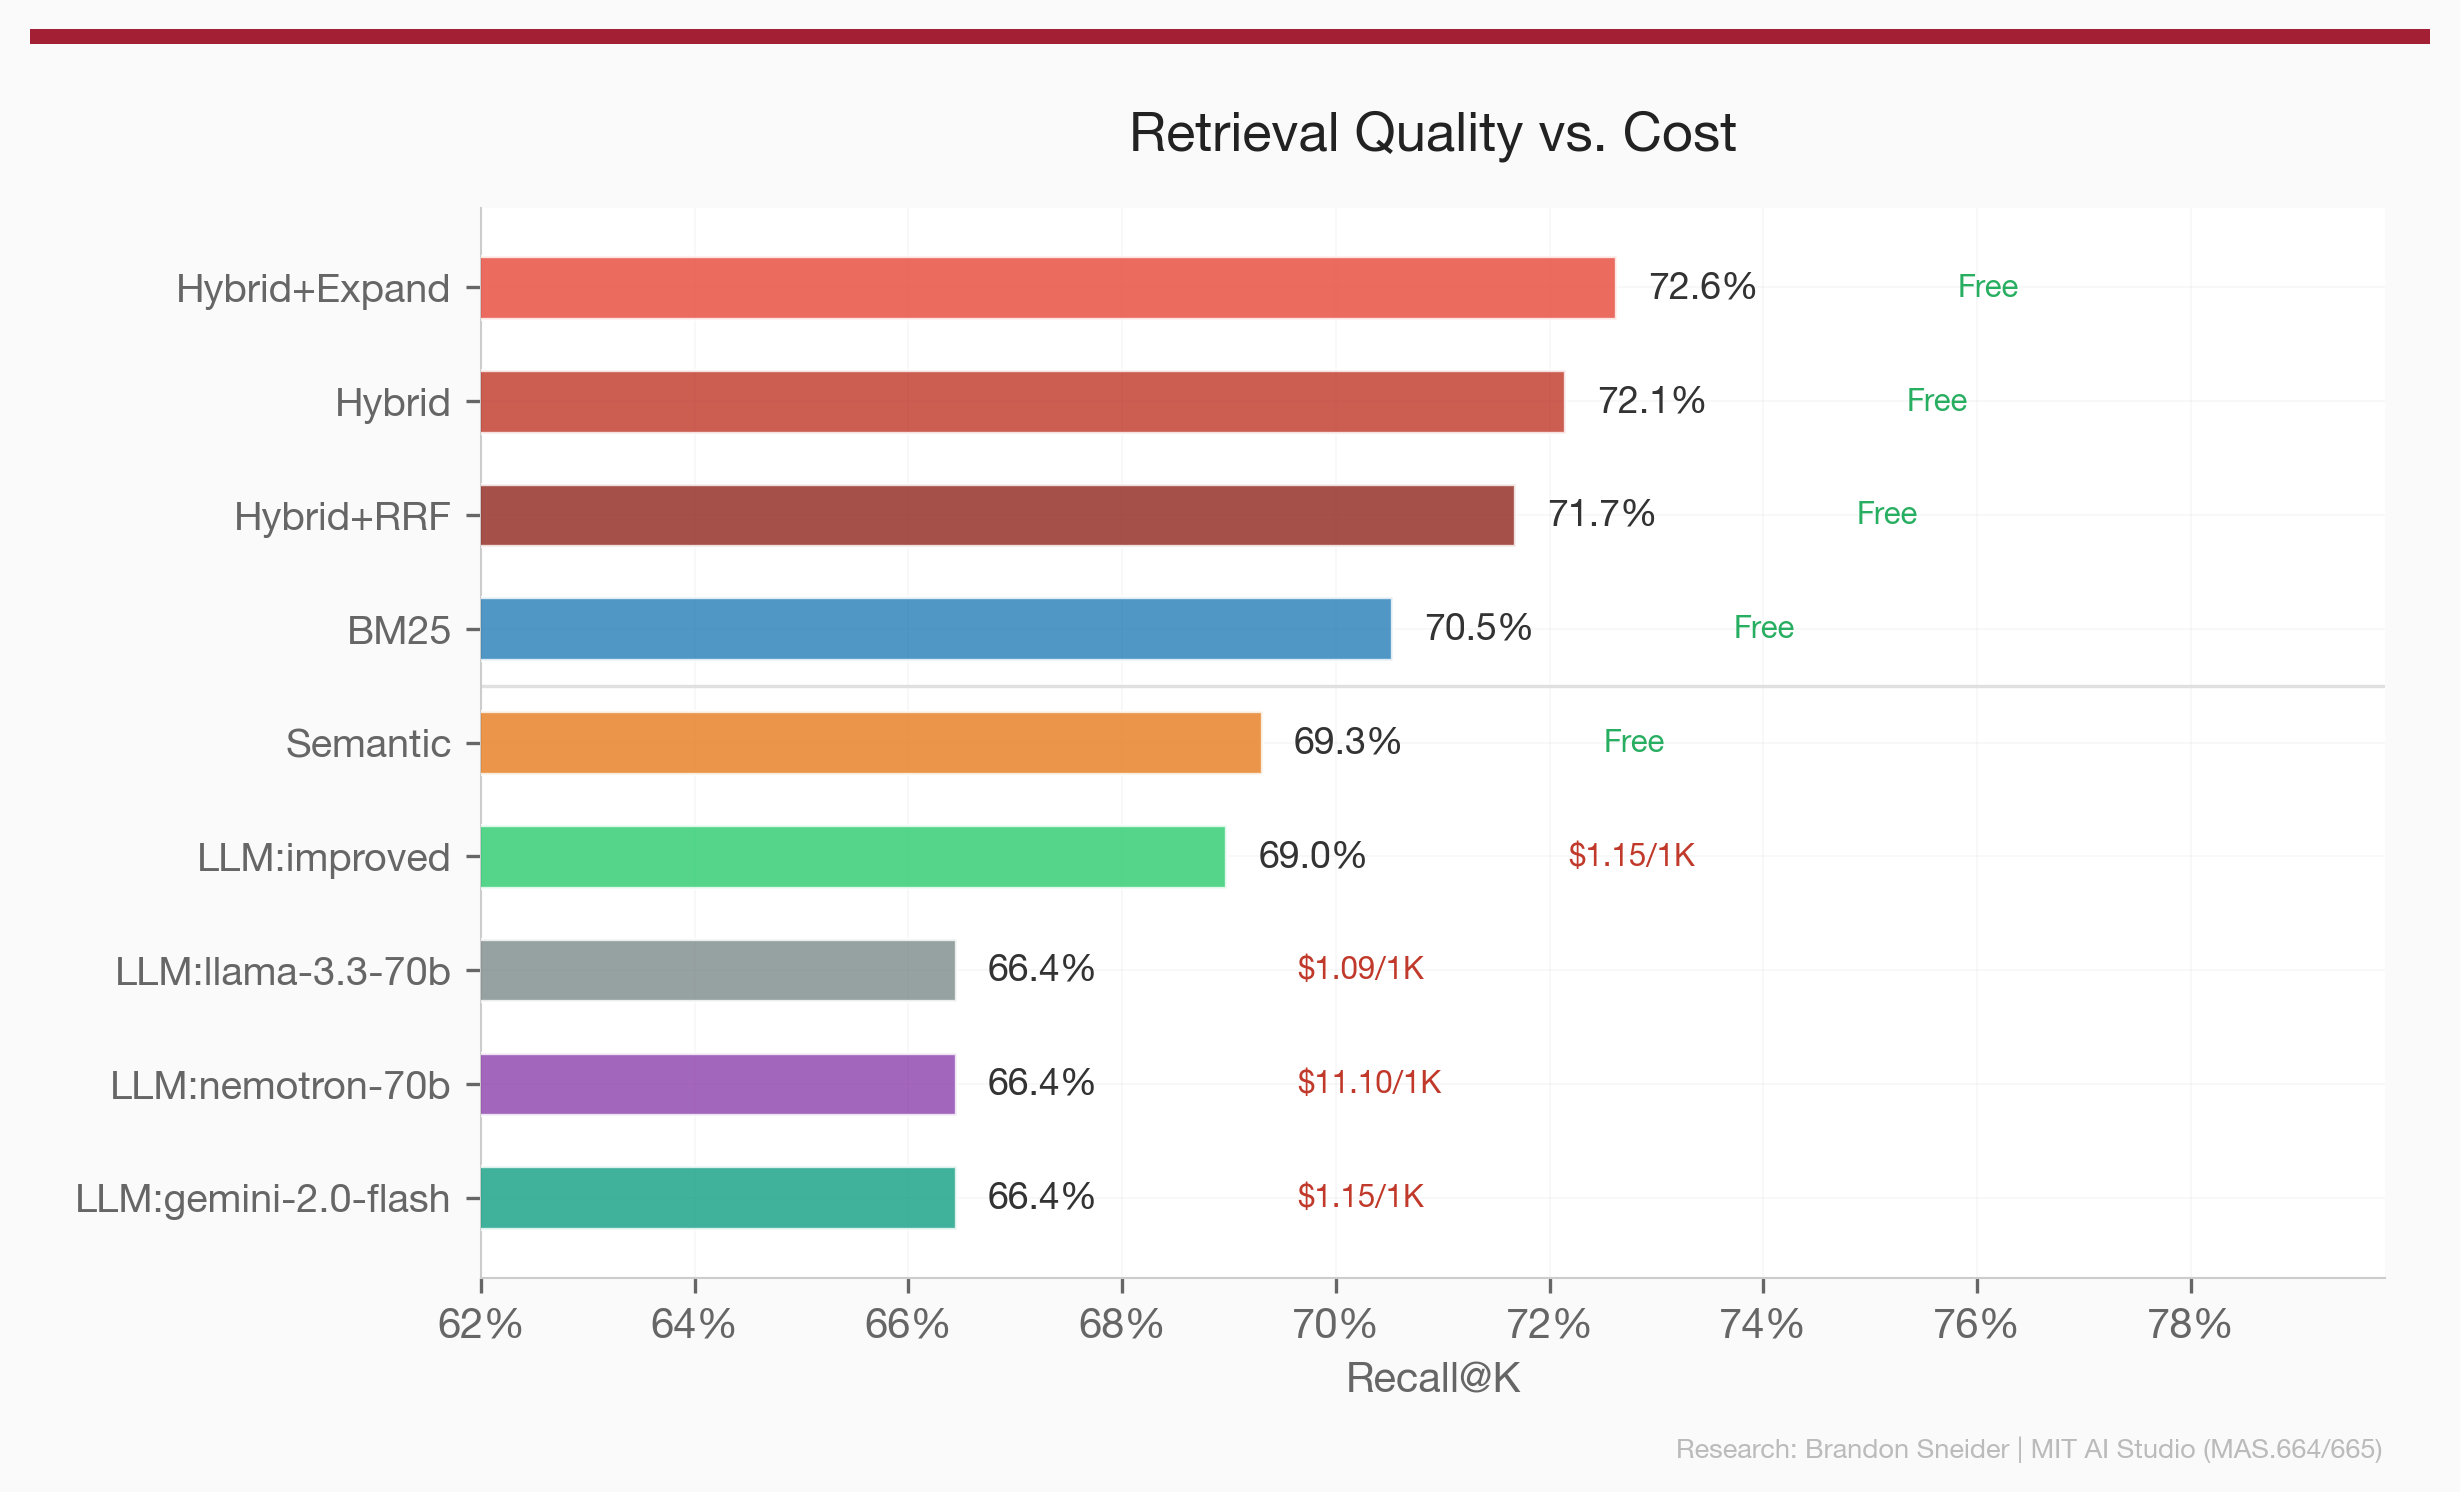
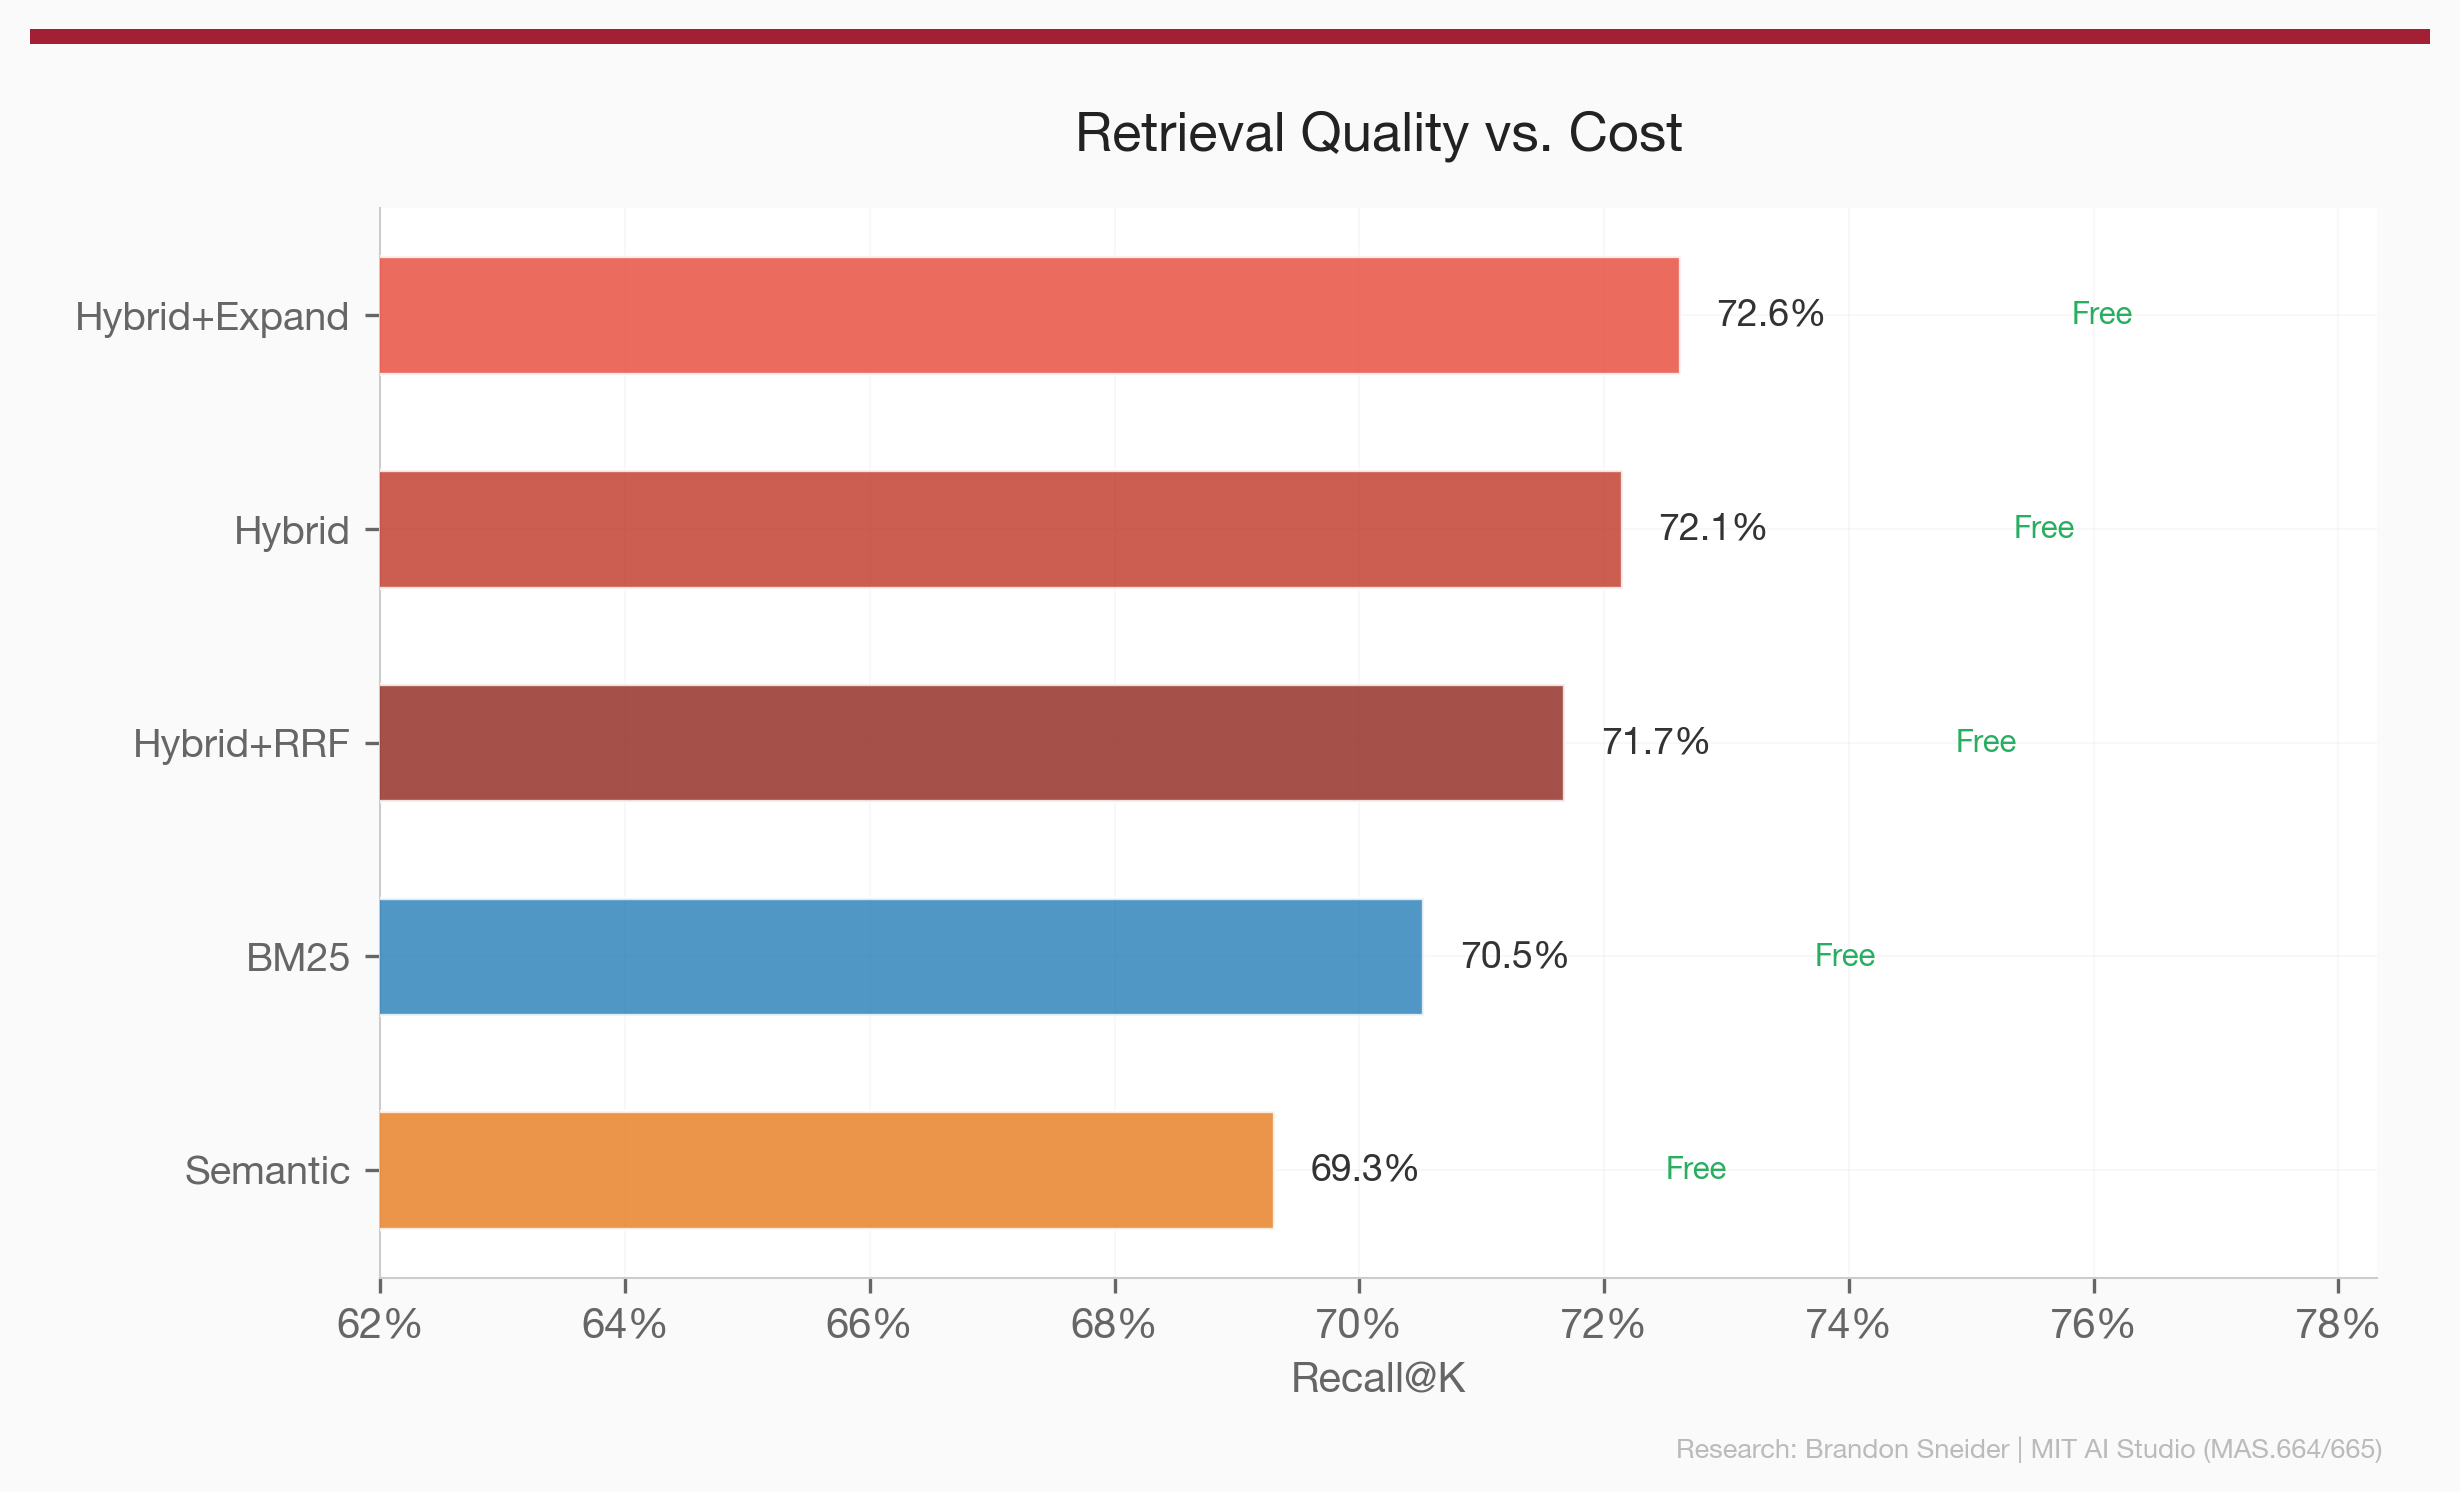
Clean charts for sharing: show only 5 free approaches
Remove all LLM reranker and PageIndex results from charts and notebook
text. Dynamic family filtering in chart 4 removes empty legend entries.
Notebook narrative updated to focus on hybrid vs single-signal story.

diff --git a/scripts/generate_charts.py b/scripts/generate_charts.py
@@ -318,9 +318,10 @@ def chart_approach_strengths(data, output_dir):
         "BM25":       (["BM25"], C_BM25, "s"),
         "Semantic":   (["Semantic"], C_SEM, "D"),
         "LLM Rerank": ([a for a in approaches if a.startswith("LLM:")], C_LLM, "^"),
-        # PageIndex disabled until tree summaries are fixed
-        # "PageIndex":  ([a for a in approaches if a == "PageIndex"], C_PI, "P"),
+        "PageIndex":  ([a for a in approaches if a == "PageIndex"], C_PI, "P"),
     }
+    # Drop families with no matching approaches in the data
+    families = {k: v for k, v in families.items() if v[0]}
     family_names = list(families.keys())
 
     scores = {}
@@ -451,8 +452,8 @@ def main():
 
     data = json.loads(args.results.read_text())
 
-    # Filter out disabled approaches (e.g. PageIndex before summaries are fixed)
-    _HIDDEN = {"PageIndex"}
+    # Filter out disabled approaches for clean sharing
+    _HIDDEN = {"PageIndex"} | {a for a in data.get("approaches", []) if a.startswith("LLM:")}
     if any(a in _HIDDEN for a in data["approaches"]):
         data["approaches"] = [a for a in data["approaches"] if a not in _HIDDEN]
         data["aggregates"] = {k: v for k, v in data["aggregates"].items() if k not in _HIDDEN}
